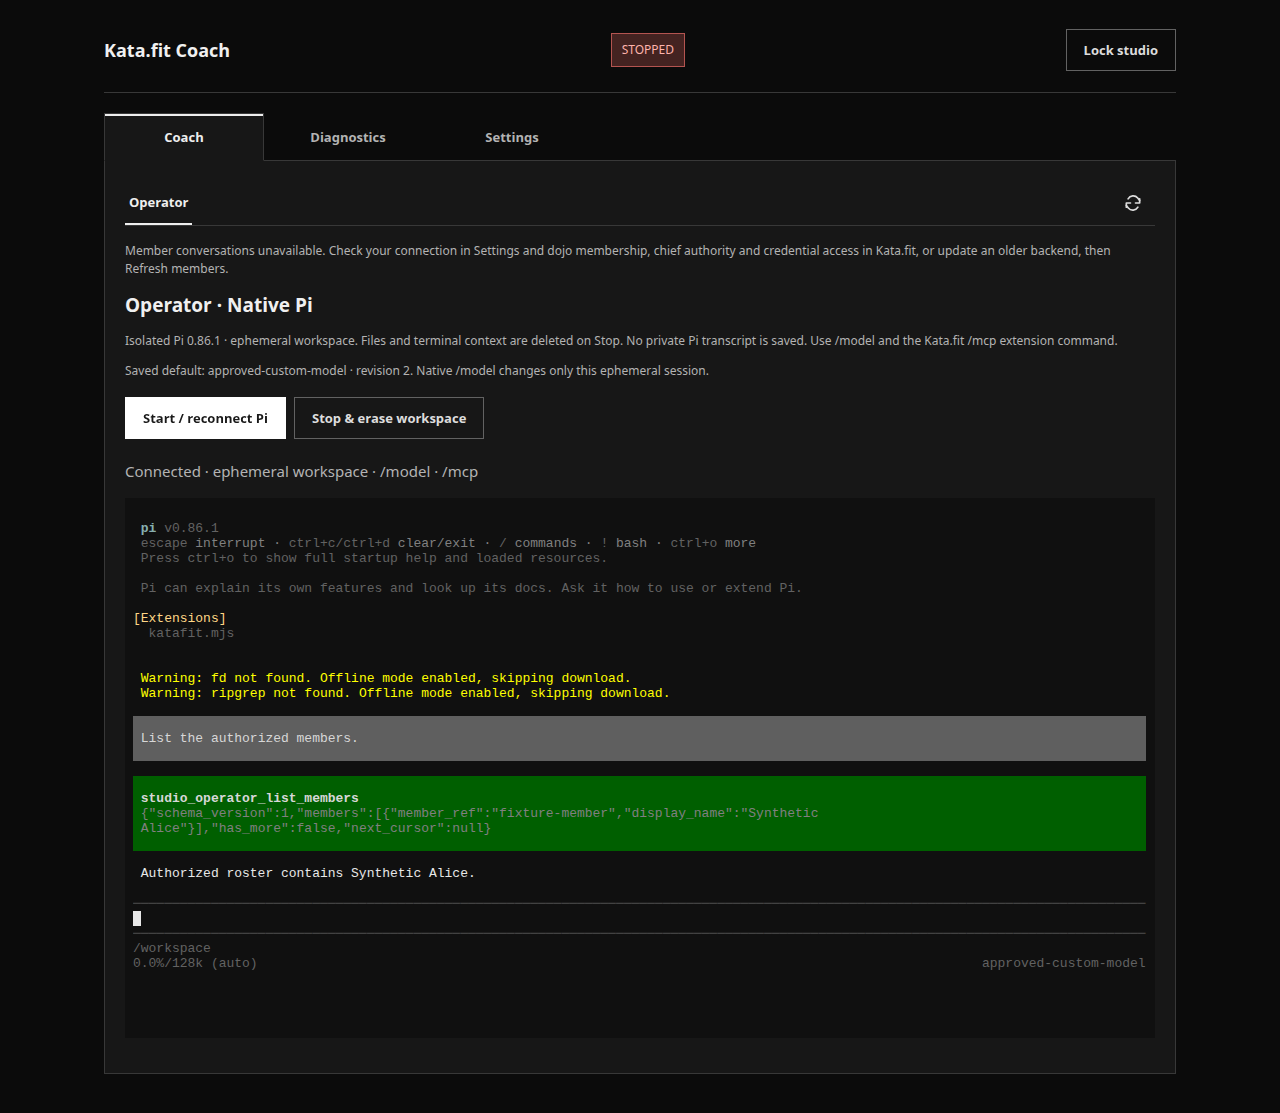
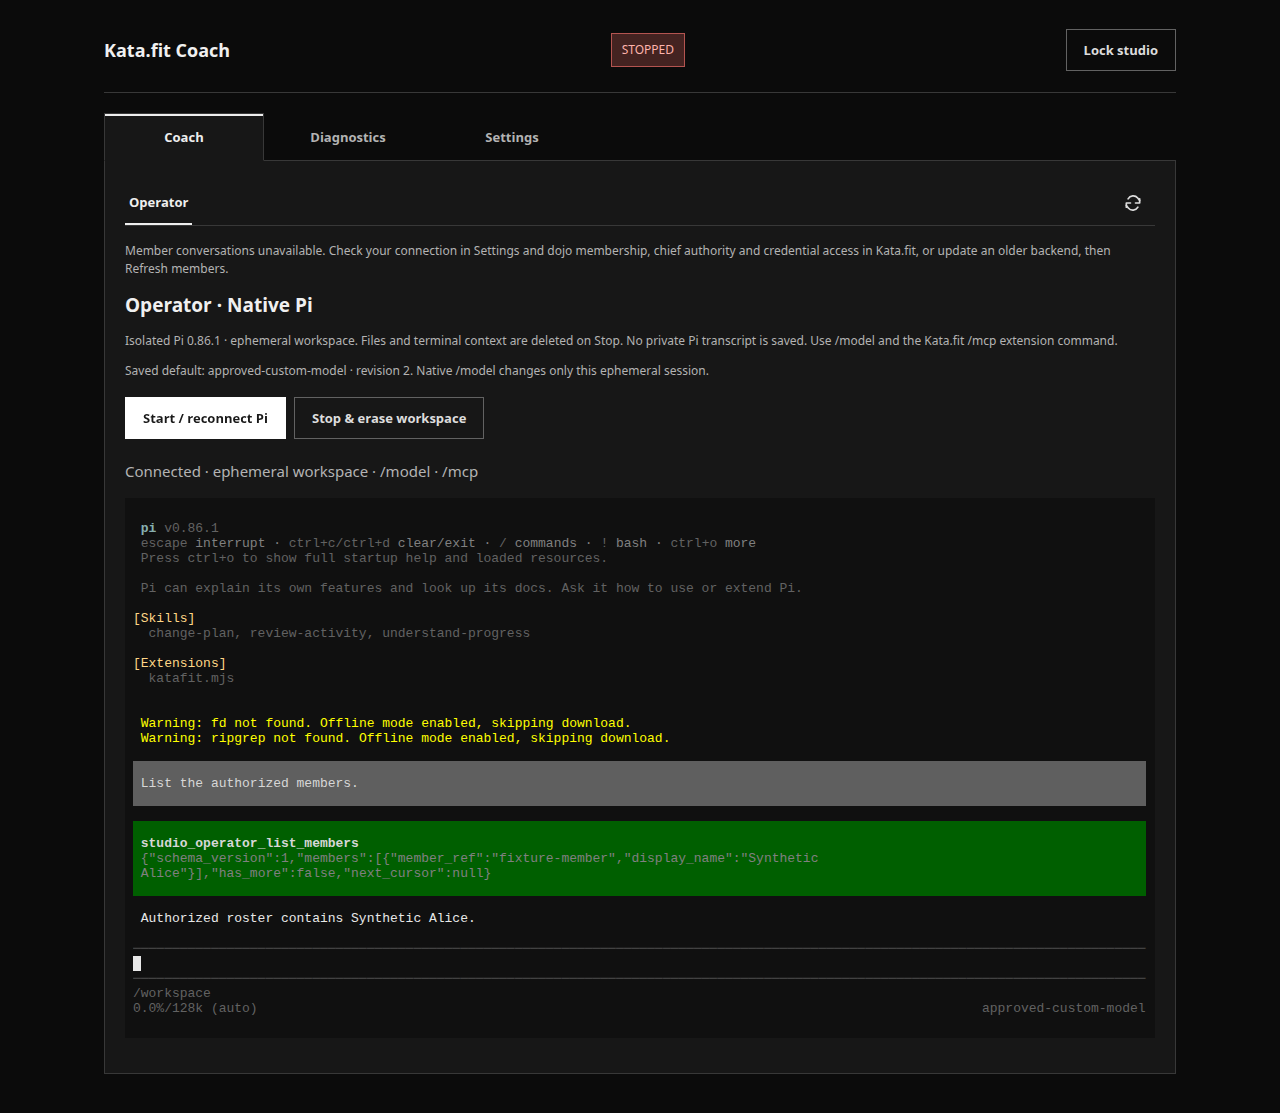
docs: exact-head native persona/skills UI evidence [skip ci]

Changed region(s): [[0.0938, 0.5499, 0.9062, 0.9164], [0.75, 0.8553, 0.875, 0.9164], [0.2188, 0.5499, 0.25, 0.5804]]

diff --git a/README.md b/README.md
@@ -1,1 +1,3 @@
-Synthetic local browser evidence for PR66. Actual isolated Pi calls authorized fixture MCP and answers from its result. Source content was verified equal to commit 0fa98159844ab060e6147c8a252759a2ffa7cfd0. Human member browsing is intentionally unsupported by this narrow synthetic fixture, hence its notice. Not a production capture. No real member records or saved customer persona are included.
+# Native-only Operator evidence
+
+Actual served native Pi, synthetic backend/provider, production-only package at `6b483b19a4d1678ad91879bdac27aa1daafd7221`. Desktop and mobile captures, not production member data or live-model semantic evidence. Native tool execution/Stop and absence of legacy composer asserted by the fixture. The fixture intentionally reports human member browsing unavailable. Private saved-persona/model probes are separate and are not published here.
